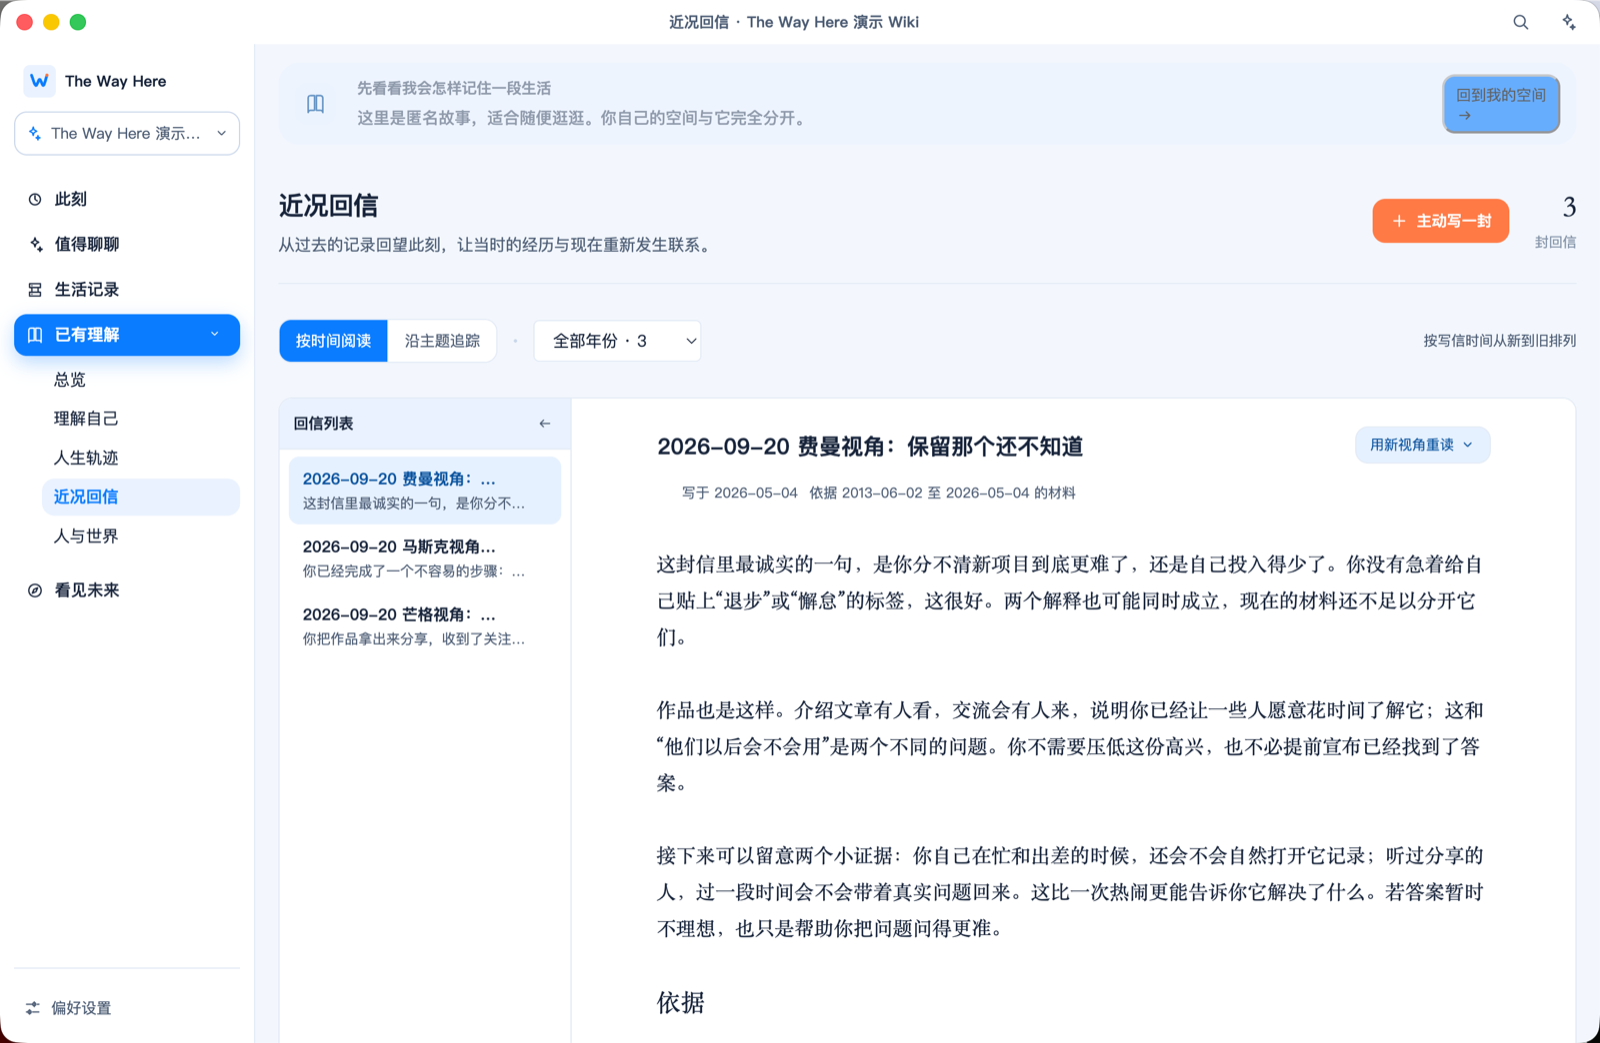
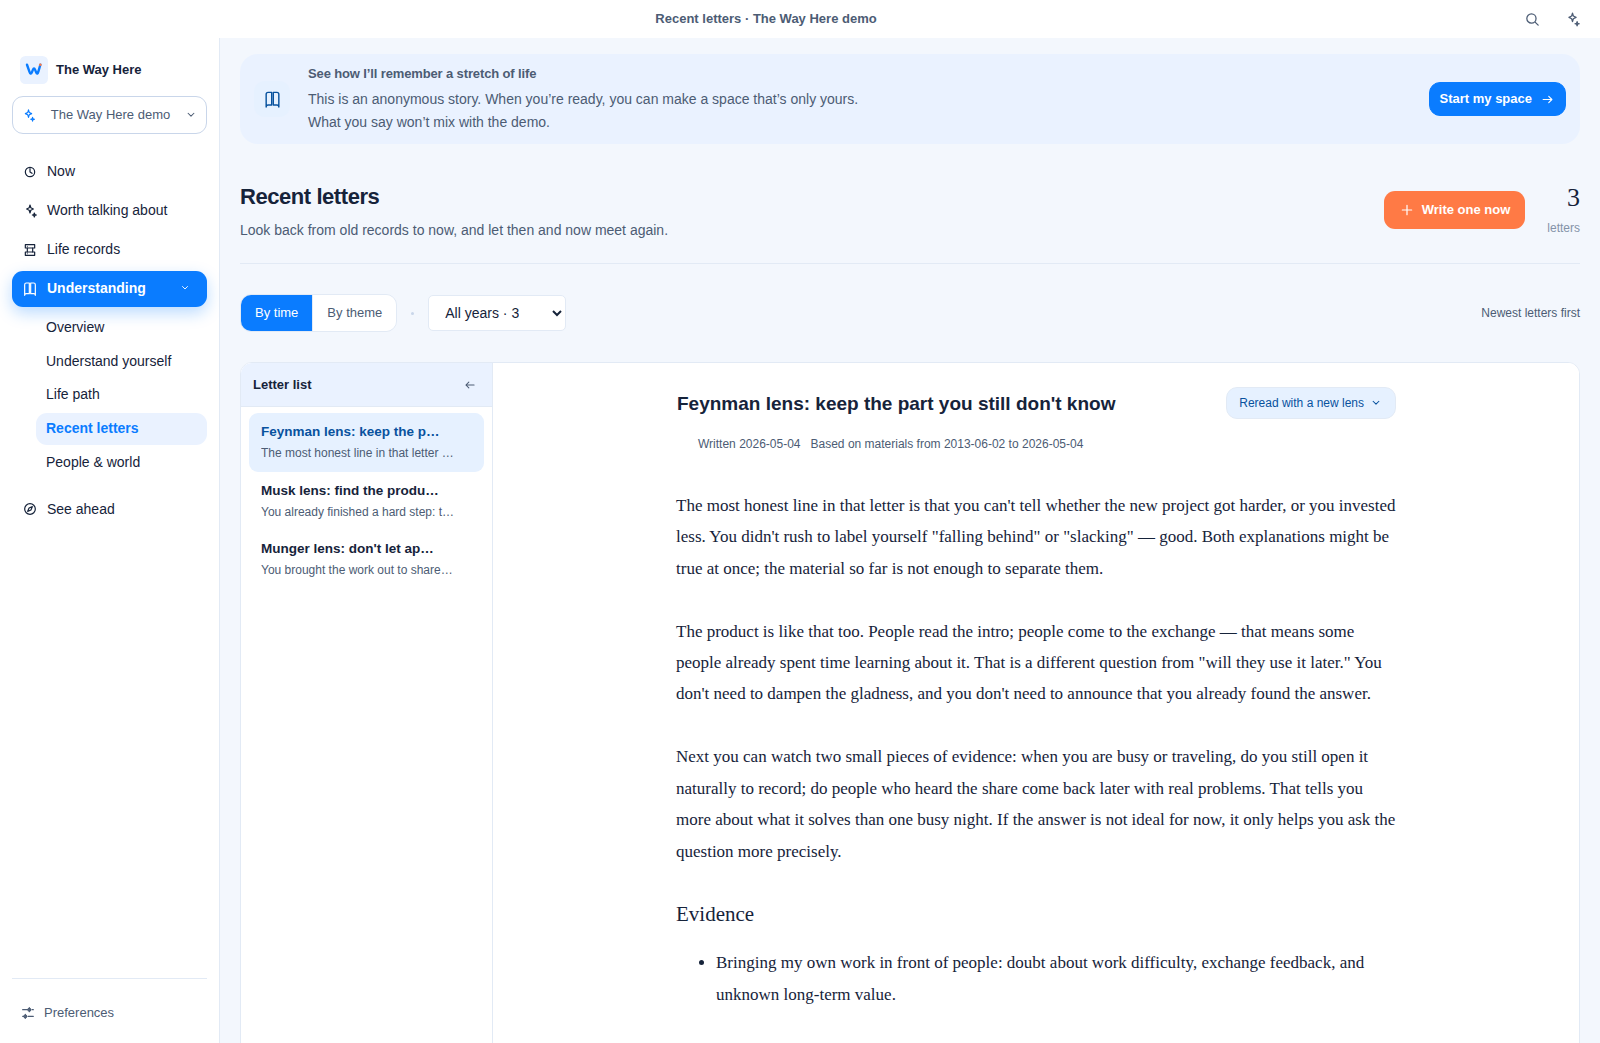
Document the English shell in README.en.md (#13)
* Document the English shell in README.en.md

Name the on-screen labels in English, note that Chinese remains available, and replace the three shared promo shots with the English demo.

* Apply the writer’s three README.en.md edits.

Use the approved locale note, Now / Quick note sentence, and Recent letters / See ahead close.

---------

diff --git a/README.en.md b/README.en.md
@@ -6,19 +6,21 @@ Tell it what's been happening lately, and it shapes your notes into a personal l
 
 > Over the past ten-plus years I've written more than 600 diary entries and taken tens of thousands of photos. Yet whenever I try to look back, all I find are a few blurry moments.
 
+In English, the shell and the bundled demo are English — the demo shows as **The Way Here demo**, and window titles look like `Now · The Way Here demo`. Your own notes can stay Chinese. Switch with `desktop.locale` (`en` / `zh`).
+
 ![Now page: jotting down a note about recent days](docs/images/now.png)
 
 [Install and run](#installation)
 
 ## What it does
 
-**Jot down what's been happening.** Type in 「此刻」 (Now), or just speak (recognized on-device, desktop only). Keep it raw with 「只存原文、稍后再整理」 (Save raw, organize later), or tap 「整理成日记」 (Turn into a diary entry) and let it tidy things up.
+**Jot down what's been happening.** Type in **Now** under **Quick note**, or just speak (recognized on-device, desktop only). Keep it raw with **Save raw, organize later**, or tap **Turn into a diary entry** and let it tidy things up.
 
-**No diary that day? Start from photos.** In 「此刻」, tap 「找照片」 (Find photos), pick a set from your Mac Photos library and mark who's in them. It drafts the story behind them, and you edit before saving (macOS desktop only).
+**No diary that day? Start from photos.** On **Now**, tap **Find photos**, pick a set from your Mac Photos library and mark who's in them. It drafts the story behind them, and you edit before saving it into **Life records** (macOS desktop only).
 
 ![A set of photos, with people marked, turned into a story](docs/images/photo-memory.png)
 
-**Look back and understand yourself.** 「已有理解」 (Understanding) organizes your records into a picture of who you are, the arc of your life, and the people and places in it. Want its take on how you've been lately? Ask it for a letter. Something unclear? Keep asking in the panel on the right.
+**Look back and understand yourself.** **Understanding** organizes your records into a picture of who you are, the arc of your life, and the people and places in it. Want its take on how you've been lately? Ask for a letter in **Recent letters**. **See ahead** looks forward from what Understanding already knows. Something unclear? Keep asking in the panel on the right.
 
 ![Reading a recent-days letter](docs/images/letter.png)
 
@@ -26,9 +28,9 @@ Tell it what's been happening lately, and it shapes your notes into a personal l
 
 Your data stays on your own computer. The server only listens on `127.0.0.1`.
 
-When you save raw, both typing and speech stay on your machine. When you use 「整理成日记」, chat, or ask for a letter, the relevant text is sent to the model you configured, for example through the `codex` CLI on your machine, or a provider you set up yourself.
+When you save raw, both typing and speech stay on your machine. When you use **Turn into a diary entry**, chat, or ask for a letter, the relevant text is sent to the model you configured, for example through the `codex` CLI on your machine, or a provider you set up yourself.
 
-Photos work the same way. Browsing in 「找照片」 happens locally, and face detection and cropping run on-device. Only when you ask for a photo story are preview images of the selected photos sent, along with the names and text you entered, to your configured vision model.
+Photos work the same way. Browsing in **Find photos** happens locally, and face detection and cropping run on-device. Only when you ask for a photo story are preview images of the selected photos sent, along with the names and text you entered, to your configured vision model.
 
 ## Installation
 
@@ -38,9 +40,9 @@ cd the-way-here
 bash start.sh
 ```
 
-Requires Python 3.9+. The script sets up Node.js 22.19+ and pnpm, installs dependencies and builds. Then open http://127.0.0.1:4321; press Ctrl+C to stop. The first launch opens a bundled anonymous demo library; create your own space from the top-left corner.
+Requires Python 3.9+. The script sets up Node.js 22.19+ and pnpm, installs dependencies and builds. Then open http://127.0.0.1:4321; press Ctrl+C to stop. The first launch opens a bundled anonymous demo library, labeled **The Way Here demo** in English; create your own space from the top-left corner.
 
-**Configure a model** (needed for diary entries, letters and chat): install and sign in to the Codex CLI, or open 「偏好设置」 (Preferences) → 「AI 助手」 (AI Assistant), pick a provider and enter an API key, which is stored only on your machine. Photo stories need a model that can read images.
+**Configure a model** (needed for diary entries, letters and chat): install and sign in to the Codex CLI, or open **Preferences** → **AI Assistant**, pick a provider and enter an API key, which is stored only on your machine. Photo stories need a model that can read images.
 
 **Desktop app** (macOS only, includes voice input and photo memories):
 
